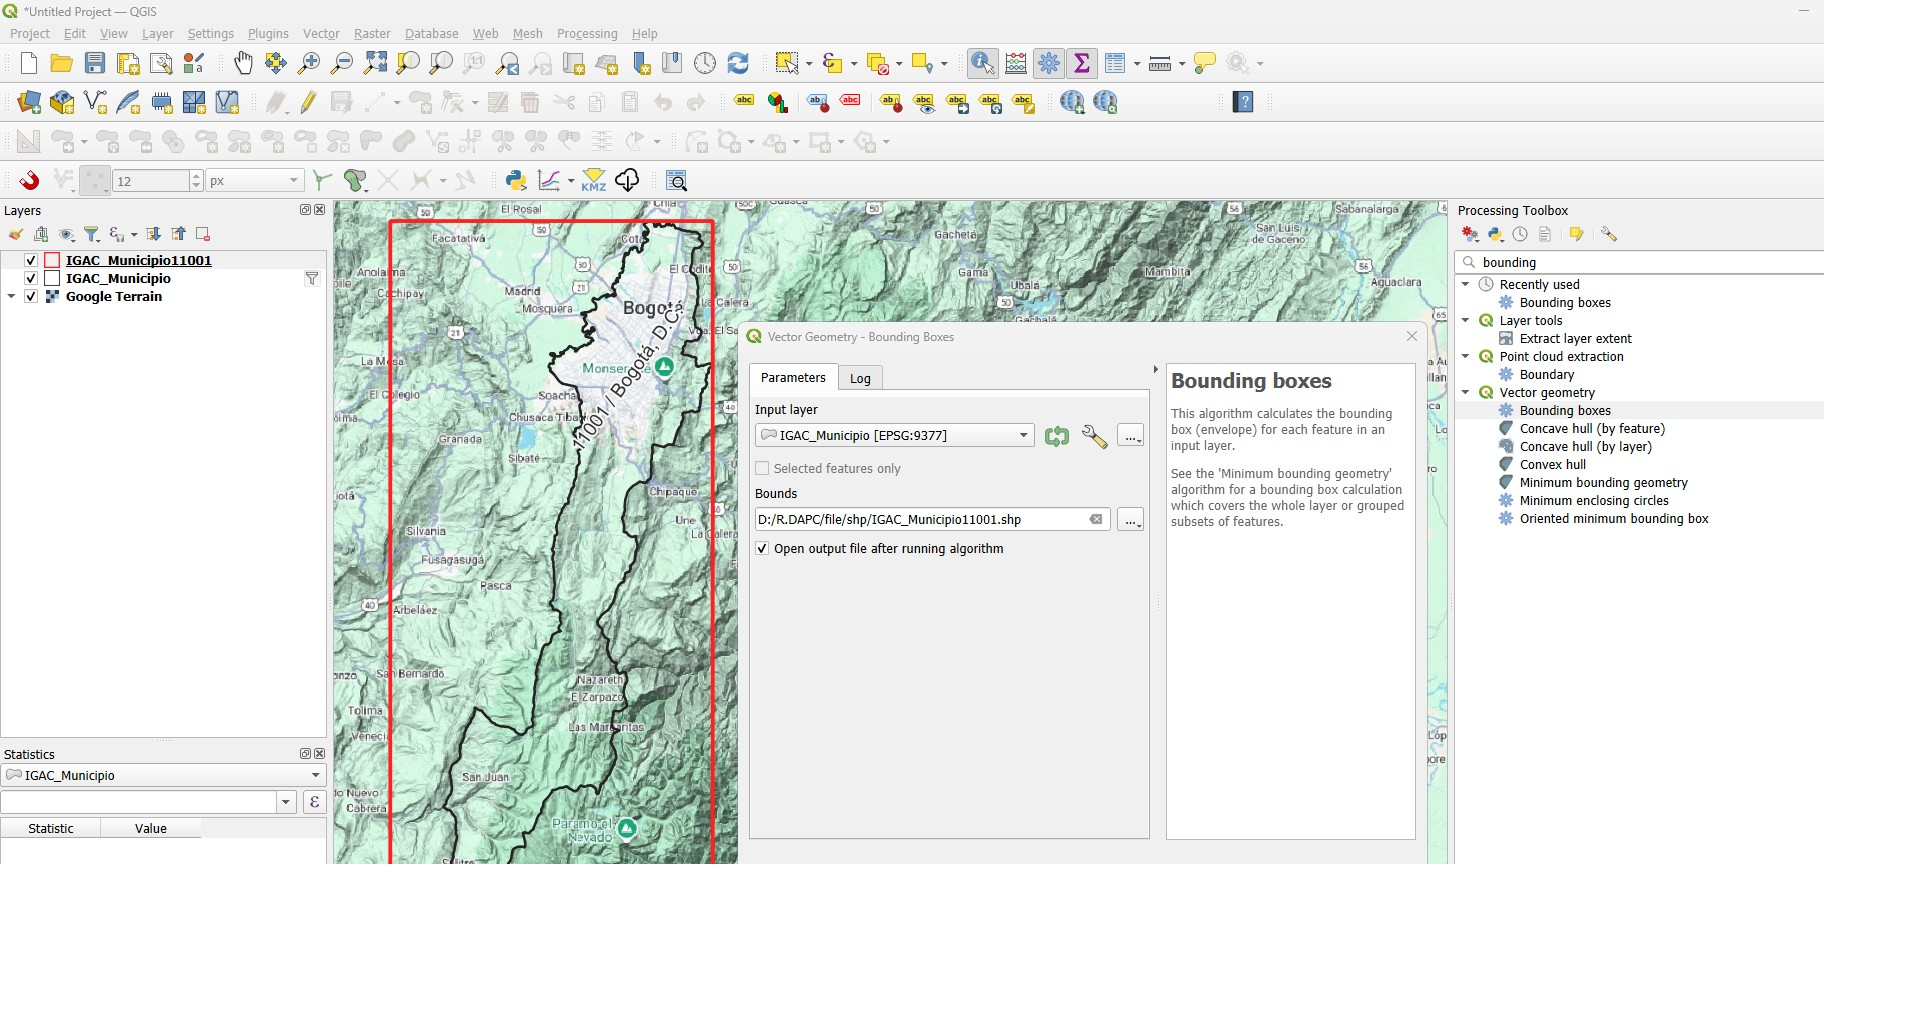
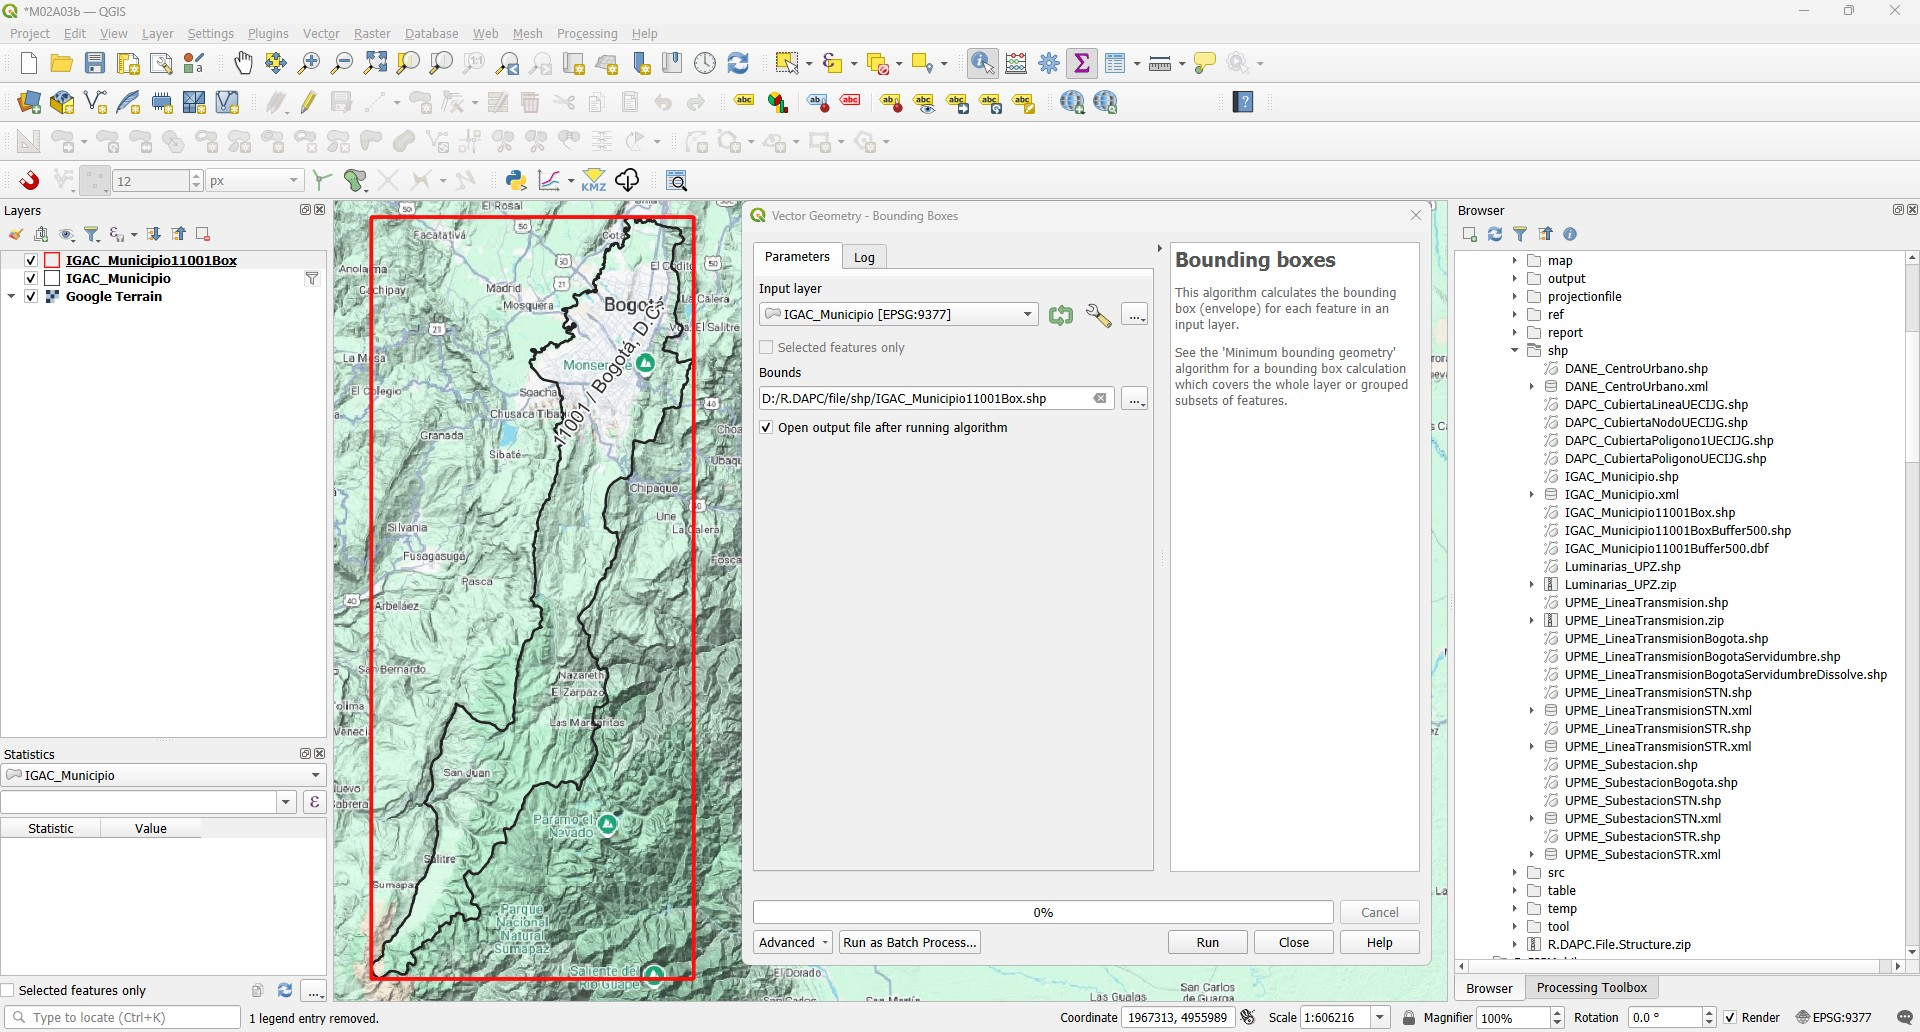
General update.

diff --git a/activity/M02A03b/Readme.md b/activity/M02A03b/Readme.md
@@ -41,7 +41,7 @@ Archivos, actividades previas, lecturas y herramientas requeridas para el desarr
 
 Para la descarga del modelo de terreno satelital, es necesaria la creación de un polígono envolvente.
 
-1. En QGIS, cree un proyecto nuevo en blanco, asigne el CRS 9377, agregue la capa [IGAC_Municipio.shp](../../file/data/IGAC/IGAC_Municipio_20250912.zip) y filtre el polígono correspondiente a Bogotá, expresión: `"MpCodigo" = '11001'`. Simbolice el polígono solo por su contorno y rotule con la expresión  `"MpCodigo"  ||  ' / '  || "MpNombre"`.
+1. En QGIS, cree un proyecto nuevo en blanco, asigne el CRS 9377, agregue la capa [IGAC_Municipio.shp](../../file/data/IGAC/IGAC_Municipio_20250912.zip) y filtre el polígono correspondiente a Bogotá, expresión: `"MpCodigo" = '11001'`. Simbolice el polígono solo por su contorno y rotule con la expresión  `"MpCodigo"  ||  ' / '  || "MpNombre"`. Guarde el mapa como _/map/M02A03b.qgz_.
 
 > Para entender la localización topográfica del polígono de Bogotá, agregue el mapa base de _Google Terrain_ desde la URL https://mt1.google.com/vt/lyrs=p&x={x}&y={y}&z={z} 
 >
@@ -49,11 +49,11 @@ Para la descarga del modelo de terreno satelital, es necesaria la creación de u
 
 <div align="center"><img src="graph/QGIS_AddLayer.jpg" alt="R.DAPC" width="100%" border="0" /></div>
 
-2. Utilizando la herramienta _Processing Toolbox / Vector Geometry / Bounding boxes_, obtenga el polígono regular envolvente que rodea el polígono de la ciudad. Guarde como _/shp/IGAC_Municipio11001.shp_ y simbolice solo por contorno.
+2. Utilizando la herramienta _Processing Toolbox / Vector Geometry / Bounding boxes_, obtenga el polígono regular envolvente que rodea el polígono de la ciudad. Guarde como _/shp/IGAC_Municipio11001Box.shp_ y simbolice solo por contorno.
 
 <div align="center"><img src="graph/QGIS_BoundingBoxes.jpg" alt="R.DAPC" width="100%" border="0" /></div>
 
-3. Utilizando la herramienta _Processing Toolbox / Vector Geometry / Buffer_, cree un polígono con aferencia de 500 metros alrededor del polígono envolvente. Guarde como _/shp/IGAC_Municipio11001Buffer500.shp_ y simbolice solo por contorno. En los parámetros establezca:
+3. Utilizando la herramienta _Processing Toolbox / Vector Geometry / Buffer_, cree un polígono con aferencia de 500 metros alrededor del polígono envolvente. Guarde como _/shp/IGAC_Municipio11001BoxBuffer500.shp_ y simbolice solo por contorno. En los parámetros establezca:
 
 * Segments: 1
 * End cap style: Square
